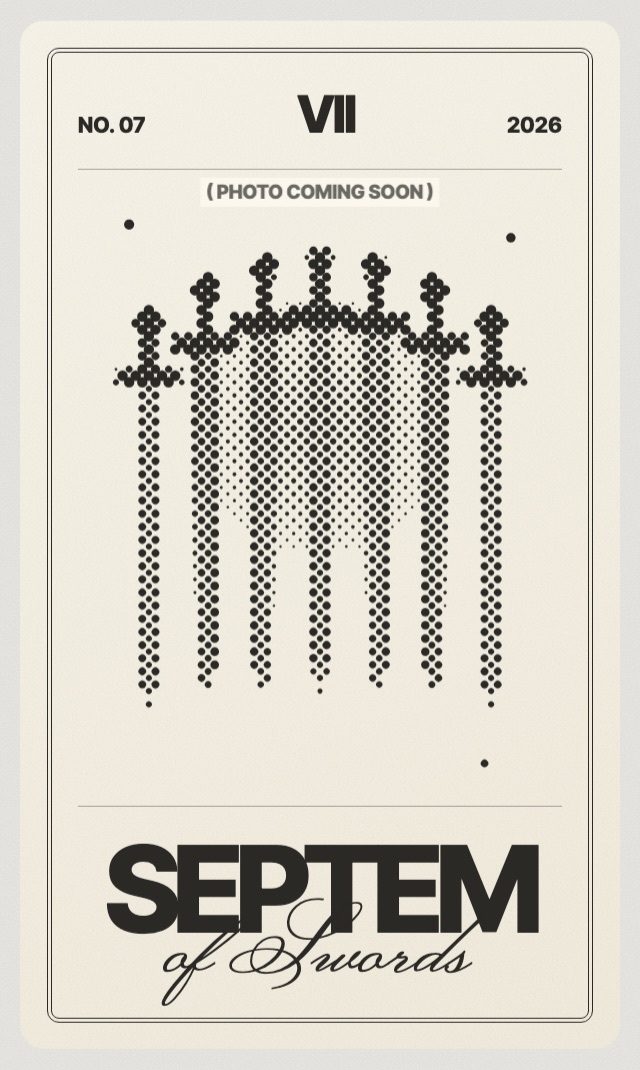
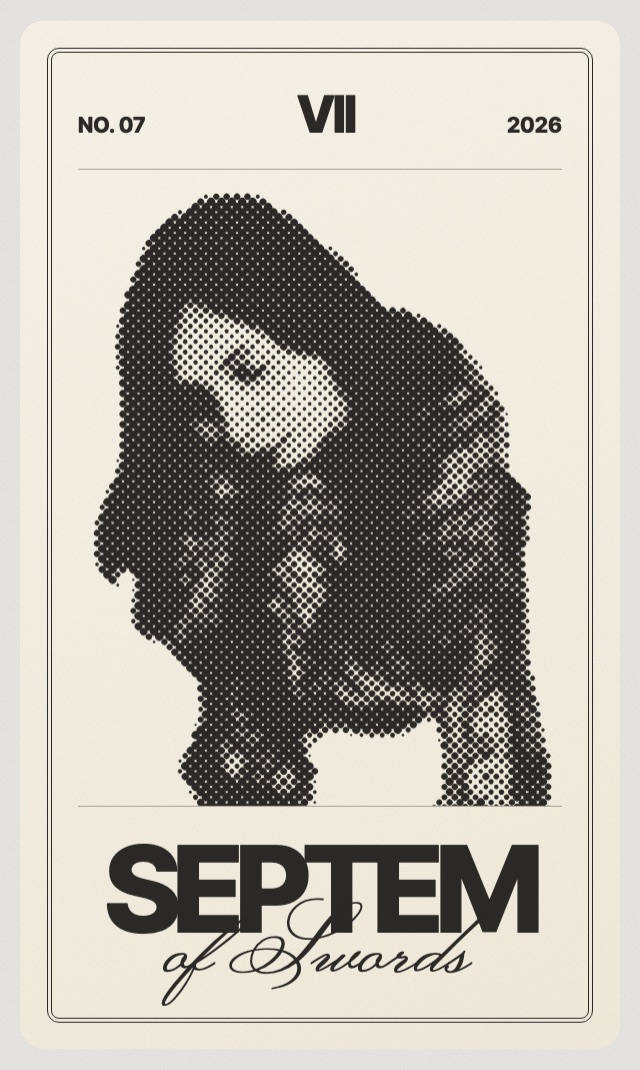
Put Ola's halftone photo on the Seven of Swords card

Changed region(s): [[0.125, 0.1542, 0.875, 0.771], [0.7812, 0.2159, 0.8125, 0.2467], [0.1875, 0.185, 0.2188, 0.2159]]

diff --git a/config.js b/config.js
@@ -12,7 +12,7 @@ window.INVITE = {
   seal: { initials: "O", wax: "#6e1018" },          // [PLACEHOLDER] initials
   card: {
     number: "VII",
-    photo: "", // [PLACEHOLDER] e.g. "photo/ola-seven-of-swords.jpg". Empty = drawn stand-in
+    photo: "photo/ola-seven-of-swords.jpg", // halftoned on the card; empty = swords stand-in
     titleHeavy: "SEPTEM",
     titleScript: "of Swords",
   },

diff --git a/invite.js b/invite.js
@@ -78,7 +78,7 @@
   // ───────── card art ─────────
   function drawCard() {
     const cv = $("#halftone");
-    Halftone.render(cv, photoSrc, { cell: Math.max(3.2, cv.clientWidth / 52) });
+    Halftone.render(cv, photoSrc, { cell: Math.max(3.2, cv.clientWidth / 66) });
   }
   function loadPhoto() {
     $("#c-placeholder").hidden = !!C.card.photo;
